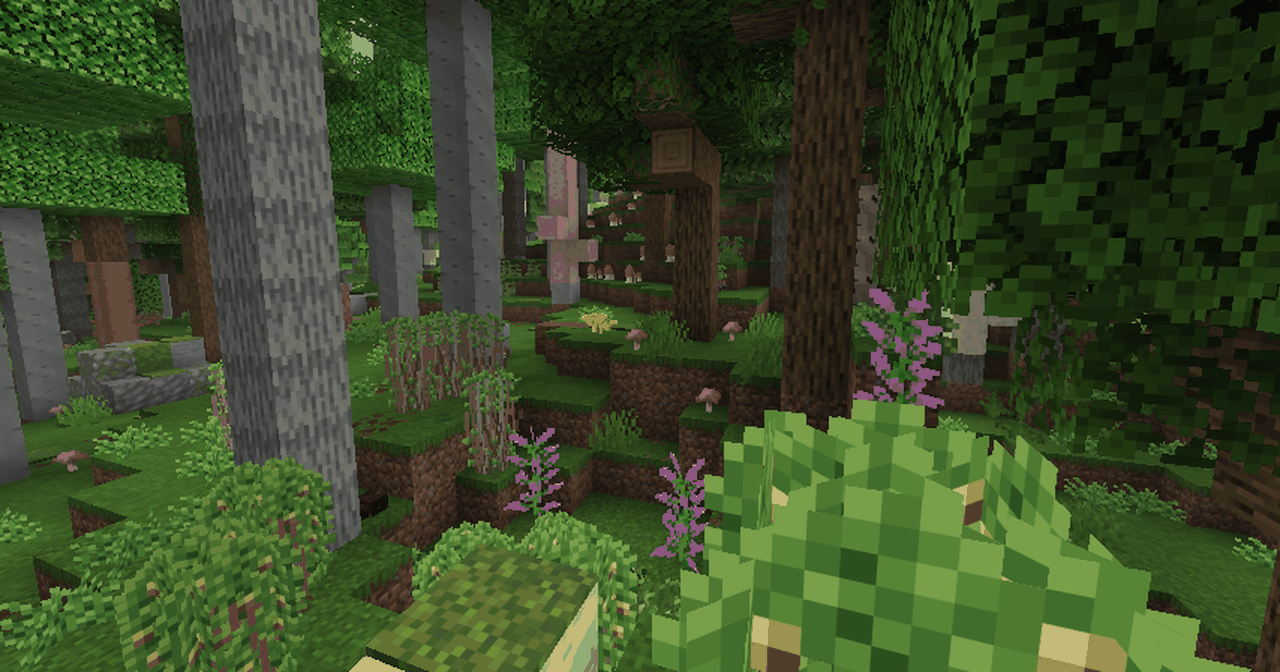
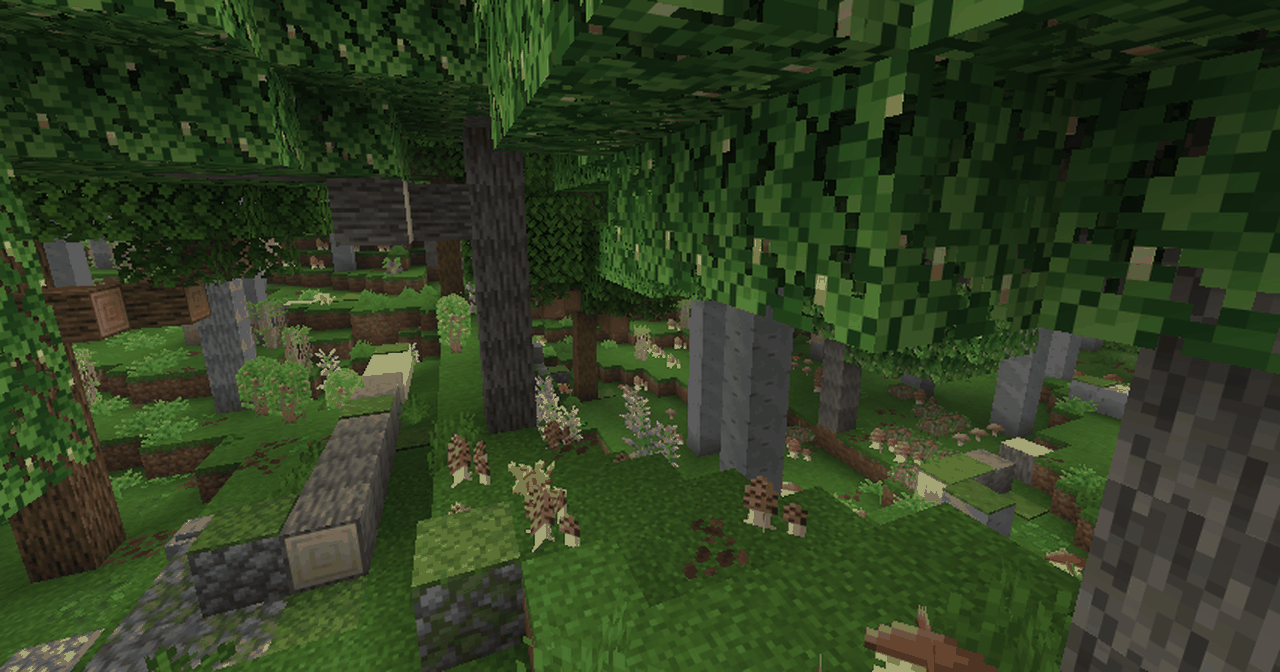
Root plates and beaver dams reworked: oval tilted root plate with root ends and crater, curved three-course dam, rounded lodge mound
Root plate: ragged oval ~5 wide of rooted dirt, dirt, coarse dirt and a few stones, thicker in the middle, top
tipped back over the trunk, Mangrove Roots poking out at the rim and back, Hanging Roots under; the trunk butt sits
in the middle of the disc; a 3x5 crater behind. Beaver dam: three courses, the top one above the pond and keyed
into the banks, the middle bowed downstream; lodge is a rounded mound (5 across, 3 high; 3x2 when cramped) that
may lean on the bank. DecorShots: open-sky overviews, no axis override for plates and dams. Same version.

diff --git a/src/main/java/com/mechanical/worldgen/WaterDecor.java b/src/main/java/com/mechanical/worldgen/WaterDecor.java
@@ -108,24 +108,20 @@ final class WaterDecor extends StoneAgeFeature {
     }
 
     /**
-     * Sticks, mud and a log or two packed across a creek in two courses, the pond behind it risen a block where it is closed
-     * in, a lodge in the pond if there is room, and a beaver or two that keep it up.
+     * A beaver dam across a creek: a wall of sticks and mud (Beaver Dam blocks, some Mud) three courses high, keyed into
+     * both banks and bowed a block downstream in the middle, a log or two on top. Where the water above is closed in the
+     * pond rises a block, so it stands fuller behind the dam. In the pond a lodge: a low rounded mound 5 across and 3
+     * high (3 across and 2 high if the pond is small) with a wet chamber inside. A beaver or two keep it all up.
      */
     private static BlockPos beaverDam(WorldGenLevel level, RandomSource random, BlockPos c) {
         Span s = crossing(level, c, 5, 2, 6, 2);
         if (s == null) return null;
         ForestDecor.Wood w = ForestDecor.woodNear(level, new BlockPos(c.getX(), s.start().getY() + 1, c.getZ()), 10);
-        BlockState dam = RiverFauna.BEAVER_DAM.get().defaultBlockState();
-        for (int course = 0; course < 2; course++) {
-            for (int i = 0; i < s.len(); i++) {
-                BlockPos p = s.start().relative(s.dir(), i).above(course);
-                BlockState st = w != null && random.nextInt(6) == 0 ? ForestDecor.pillar(w.log(), s.dir().getAxis())
-                        : course == 0 && random.nextInt(5) == 0 ? Blocks.MUD.defaultBlockState() : dam;
-                set(level, p, st);
-            }
-        }
+        Direction dir = s.dir(), across = dir.getClockWise();
+        int wy = s.start().getY();
+        for (int course = 0; course < 2; course++)
+            for (int i = 0; i < s.len(); i++) set(level, s.start().relative(dir, i).above(course), dam(random, course));
         // the pond: one block up on whichever side is closed in (a river that runs on just gets the dam)
-        Direction across = s.dir().getClockWise();
         int side = 0;
         for (int sd : new int[] {1, -1}) {
             Set<BlockPos> pond = pond(level, s, across, sd, c);
@@ -135,22 +131,64 @@ final class WaterDecor extends StoneAgeFeature {
                 break;
             }
         }
-        int waterY = s.start().getY() + (side != 0 ? 1 : 0);
-        BlockPos mid = s.start().relative(s.dir(), s.len() / 2);
-        BlockPos lodge = lodgeSite(level, mid, across, side != 0 ? side : 1, waterY, c);
-        if (lodge != null) {
-            for (int dx = -1; dx <= 1; dx++)
-                for (int dz = -1; dz <= 1; dz++) {
-                    if (dx != 0 || dz != 0) set(level, lodge.offset(dx, 0, dz), dam); // the ring; the chamber inside stays wet
-                    set(level, lodge.offset(dx, 1, dz), dam);
-                }
-            set(level, lodge.above(2), dam);
+        int up = side != 0 ? side : 1;
+        // the top course, standing above the pond, ends keyed into the banks; the middle bowed out downstream
+        for (int i = -1; i <= s.len(); i++) {
+            BlockPos p = s.start().relative(dir, i).atY(wy + 2);
+            boolean bank = i < 0 || i == s.len();
+            if (level.getBlockState(p).canBeReplaced() && level.getFluidState(p).isEmpty() && (!bank || solid(level, p.below())))
+                set(level, p, w != null && !bank && random.nextInt(5) == 0 ? ForestDecor.pillar(w.log(), dir.getAxis()) : dam(random, 2));
+            if (bank || s.len() < 3 || i == 0 || i == s.len() - 1) continue;
+            for (int course = 0; course < 2; course++) {
+                BlockPos q = s.start().relative(dir, i).relative(across, -up).above(course);
+                if (level.getBlockState(q).canBeReplaced()) set(level, q, dam(random, course));
+            }
         }
-        BlockPos home = lodge != null ? lodge : mid.atY(waterY);
-        BlockPos stand = mid.above(2);
+        int waterY = wy + (side != 0 ? 1 : 0);
+        BlockPos mid = s.start().relative(dir, s.len() / 2);
+        BlockPos lodge = lodgeSite(level, mid, across, up, waterY, c, 2);
+        boolean big = lodge != null;
+        if (lodge == null) lodge = lodgeSite(level, mid, across, up, waterY, c, 1);
+        if (lodge != null) lodge(level, random, lodge, big, w);
+        if (lodge != null) // dev log: the spot between dam and lodge, seen from downstream
+            Decor.logPlaced("beaver_view" + (big ? "_big_" : "_small_") + Decor.viewAngle(up > 0 ? across.getOpposite() : across),
+                    new BlockPos((mid.getX() + lodge.getX()) / 2, waterY, (mid.getZ() + lodge.getZ()) / 2));
+        BlockPos home = lodge != null ? lodge : mid.atY(waterY), lodgeAt = lodge;
+        BlockPos stand = mid.atY(wy + 3);
         for (int i = random.nextInt(3) == 0 ? 2 : 1; i > 0; i--)
-            spawn(level, random, RiverFauna.BEAVER.get(), stand, b -> b.settle(home, s.start(), s.dir(), s.len(), lodge));
+            spawn(level, random, RiverFauna.BEAVER.get(), stand, b -> b.settle(home, s.start(), dir, s.len(), lodgeAt));
         return mid;
+    }
+
+    /** Dam stuff: Beaver Dam blocks (sticks packed with mud), now and then plain Mud low down. */
+    private static BlockState dam(RandomSource random, int course) {
+        return course == 0 && random.nextInt(5) == 0 ? Blocks.MUD.defaultBlockState() : RiverFauna.BEAVER_DAM.get().defaultBlockState();
+    }
+
+    /**
+     * The lodge at the water surface centre: a rounded mound (big: 5 across, 3 high; else 3 across, 2 high), its outer
+     * ring built up from the pond floor, the chamber in the middle at water level left wet.
+     */
+    private static void lodge(WorldGenLevel level, RandomSource random, BlockPos centre, boolean big, ForestDecor.Wood w) {
+        int[] reach = big ? new int[] {5, 4, 1} : new int[] {2, 1}; // squared radius of each layer
+        for (int layer = 0; layer < reach.length; layer++) {
+            for (int dx = -2; dx <= 2; dx++) {
+                for (int dz = -2; dz <= 2; dz++) {
+                    int d = dx * dx + dz * dz;
+                    if (d > reach[layer] || layer == 0 && d == 0) continue;
+                    BlockPos p = centre.offset(dx, layer, dz);
+                    if (!level.getBlockState(p).canBeReplaced() && !natural(level.getBlockState(p))) continue; // never into a tree
+                    set(level, p, dam(random, layer));
+                    if (layer == 0 && d >= reach[0] - 1)
+                        for (BlockPos q = p.below(); q.getY() > centre.getY() - 4 && level.getFluidState(q).is(FluidTags.WATER); q = q.below()) set(level, q, dam(random, 0));
+                }
+            }
+        }
+        if (w != null && random.nextBoolean()) { // a peeled stick poking out of the side
+            Direction d = Direction.Plane.HORIZONTAL.getRandomDirection(random);
+            BlockPos p = centre.above().relative(d, big ? 3 : 2);
+            if (level.getBlockState(p).isAir()) set(level, p, ForestDecor.pillar(w.stripped(), d.getAxis()));
+        }
     }
 
     /** One to three bleached, barkless logs lying on a beach or bank within 3 blocks of the water. */
@@ -346,22 +384,36 @@ final class WaterDecor extends StoneAgeFeature {
         return fill;
     }
 
-    /** A 3x3 of open water at waterY on side of the dam, 3 to 7 blocks out, with room above for the roof. */
-    private static BlockPos lodgeSite(WorldGenLevel level, BlockPos mid, Direction across, int side, int waterY, BlockPos c) {
-        for (int out = 3; out <= 7; out++) {
+    /**
+     * Open water at waterY for a lodge of radius r (2: 5x5 without its corners, 1: 3x3) on side of the dam, its centre 3
+     * to 7 blocks out, with room above for the mound.
+     */
+    private static BlockPos lodgeSite(WorldGenLevel level, BlockPos mid, Direction across, int side, int waterY, BlockPos c, int r) {
+        for (int out = r + 2; out <= 7; out++) {
             for (int shift = 0; shift <= 4; shift++) {
                 for (int sign : new int[] {1, -1}) {
                     BlockPos centre = mid.relative(across, side * out).relative(across.getClockWise(), shift * sign).atY(waterY);
-                    if (Math.abs(centre.getX() - c.getX()) > 13 || Math.abs(centre.getZ() - c.getZ()) > 13) continue;
-                    boolean ok = true;
-                    for (int dx = -1; dx <= 1 && ok; dx++)
-                        for (int dz = -1; dz <= 1 && ok; dz++)
-                            ok = surfaceWater(level, centre.offset(dx, 0, dz)) && level.getBlockState(centre.offset(dx, 2, dz)).isAir();
+                    if (Math.abs(centre.getX() - c.getX()) > 15 - r || Math.abs(centre.getZ() - c.getZ()) > 15 - r) continue;
+                    boolean ok = level.getBlockState(centre.above(3)).isAir();
+                    for (int dx = -r; dx <= r && ok; dx++)
+                        for (int dz = -r; dz <= r && ok; dz++) {
+                            int d = dx * dx + dz * dz;
+                            BlockPos p = centre.offset(dx, 0, dz);
+                            // the middle (the chamber) in open water, the rest may lean on the bank (a bank lodge)
+                            ok = d > r * r + 1 || surfaceWater(level, p) || d > 0 && lodgeBank(level, p);
+                        }
                     if (ok) return centre;
                 }
             }
         }
         return null;
+    }
+
+    /** Bank a lodge may be built against: natural ground at the water's height, or open air right above such ground. */
+    private static boolean lodgeBank(WorldGenLevel level, BlockPos p) {
+        BlockState s = level.getBlockState(p);
+        return level.getFluidState(p).isEmpty() && level.getBlockState(p.above()).canBeReplaced()
+                && (natural(s) || s.canBeReplaced() && natural(level.getBlockState(p.below())));
     }
 
     /** Solid, natural ground on both sides of p across dir, and under it. */

diff --git a/src/main/java/com/mechanical/worldgen/ForestDecor.java b/src/main/java/com/mechanical/worldgen/ForestDecor.java
@@ -114,18 +114,25 @@ final class ForestDecor extends StoneAgeFeature {
         return true;
     }
 
-    /** An uprooted tree: the trunk on the ground, the root plate standing on end at its foot and the pit it tore out. */
+    /**
+     * An uprooted tree: the root plate standing on end, the trunk's butt in its middle (lifted a block off the ground for
+     * two blocks, then lying on it) and behind the plate the crater it tore out of the ground.
+     */
     private static boolean rootPlate(WorldGenLevel level, RandomSource random, BlockPos c) {
         Wood w = woodNear(level, c, 10);
-        if (w == null || !flat(level, c, 2, 1)) return false;
         Direction dir = randomSide(random);
-        List<BlockPos> trunk = logCells(level, c.relative(dir), dir, 5 + random.nextInt(4), false);
-        if (trunk.size() < 4) return false;
+        if (w == null || !flat(level, c, 2, 1) || !flat(level, c.relative(dir.getOpposite(), 2), 2, 1)) return false;
+        List<BlockPos> trunk = logCells(level, c.relative(dir, 3), dir, 3 + random.nextInt(4), false);
+        BlockPos butt = c.above();
+        if (trunk.size() < 2 || !level.getBlockState(butt.relative(dir)).isAir() || !level.getBlockState(butt.relative(dir, 2)).isAir()) return false;
+        plate(level, random, c, dir, 2.2 + random.nextDouble() * 0.8);
+        List<BlockPos> lifted = List.of(butt, butt.relative(dir), butt.relative(dir, 2));
+        lay(level, lifted, w.log(), dir.getAxis());
         lay(level, trunk, w.log(), dir.getAxis());
-        plate(level, random, c, dir, 1.8 + random.nextDouble());
-        pit(level, random, c.relative(dir.getOpposite()), dir);
+        pit(level, random, c, dir);
         if (w.leaves() != null && random.nextBoolean()) crown(level, random, trunk.getLast().relative(dir), w.leaves());
         dressLog(level, random, trunk, dir.getAxis(), 0.15F);
+        Decor.logPlaced("root_plate_dir_" + Decor.viewAngle(dir), butt);
         return true;
     }
 
@@ -279,43 +286,71 @@ final class ForestDecor extends StoneAgeFeature {
     }
 
     /**
-     * The root plate: a ragged disc of Rooted Dirt, Dirt and Coarse Dirt standing on end across dir (the way the trunk
-     * fell), its middle a block above c, Hanging Roots under every overhang.
+     * The root plate, standing on end across dir (the way the trunk fell) with its middle a block above c: a ragged oval
+     * about 5 wide and 4-5 high of Rooted Dirt, Dirt and Coarse Dirt with a few stones in it, two thick in the middle,
+     * its top tipped back a block over the trunk. Root ends (Mangrove Roots) poke out at the rim and from the back, and
+     * Hanging Roots hang under it.
      */
     static void plate(WorldGenLevel level, RandomSource random, BlockPos c, Direction dir, double radius) {
-        Direction across = dir.getClockWise();
+        Direction across = dir.getClockWise(), back = dir.getOpposite();
         BlockPos mid = c.above();
-        int ir = (int) Math.ceil(radius);
-        List<BlockPos> placed = new ArrayList<>();
-        for (int a = -ir; a <= ir; a++) {
-            for (int b = -ir; b <= ir; b++) {
-                if (a * a + b * b > radius * radius + (random.nextDouble() - 0.5) * 1.5) continue;
-                BlockPos p = mid.relative(across, a).above(b);
-                if (!level.getBlockState(p).canBeReplaced() || !level.getFluidState(p).isEmpty()) continue;
-                set(level, p, (switch (random.nextInt(6)) {
-                    case 0, 1 -> Blocks.DIRT;
-                    case 2 -> Blocks.COARSE_DIRT;
-                    default -> Blocks.ROOTED_DIRT;
-                }).defaultBlockState());
-                placed.add(p);
+        double rh = radius + 0.3, rv = radius;
+        List<BlockPos> soil = new ArrayList<>(), rim = new ArrayList<>();
+        List<Direction> out = new ArrayList<>();
+        for (int a = -(int) Math.ceil(rh); a <= rh; a++) {
+            for (int b = -(int) Math.ceil(rv); b <= rv; b++) {
+                double d = (a / rh) * (a / rh) + (b / rv) * (b / rv);
+                if (d > 1 + (random.nextDouble() - 0.5) * 0.45) continue;
+                BlockPos p = mid.relative(across, a).above(b).relative(dir, b >= 2 ? 1 : 0);
+                if (soil(level, random, p)) soil.add(p);
+                if (d < 0.3 && soil(level, random, p.relative(back))) soil.add(p.relative(back));
+                if (d > 0.55) {
+                    rim.add(p);
+                    out.add(Math.abs(a / rh) >= Math.abs(b / rv) ? (a > 0 ? across : across.getOpposite()) : Direction.UP);
+                }
             }
         }
-        for (BlockPos p : placed) if (level.getBlockState(p.below()).isAir() && random.nextInt(5) < 3) set(level, p.below(), Blocks.HANGING_ROOTS.defaultBlockState());
+        BlockState roots = Blocks.MANGROVE_ROOTS.defaultBlockState();
+        for (int i = 0; i < rim.size(); i++) {
+            BlockPos q = rim.get(i).relative(out.get(i));
+            if (random.nextBoolean() && level.getBlockState(q).isAir()) set(level, q, roots);
+        }
+        for (BlockPos p : soil) {
+            if (random.nextInt(4) == 0 && level.getBlockState(p.relative(back)).isAir()) set(level, p.relative(back), roots);
+            if (level.getBlockState(p.below()).isAir() && random.nextInt(5) < 3) set(level, p.below(), Blocks.HANGING_ROOTS.defaultBlockState());
+        }
     }
 
-    /** The hole the roots tore out, behind the plate: a block deep, two in the middle, sometimes holding a little rain water. */
-    private static void pit(WorldGenLevel level, RandomSource random, BlockPos back, Direction dir) {
+    /** One block of the plate if the spot is free: mostly dirt of three kinds, now and then a stone it tore up. */
+    private static boolean soil(WorldGenLevel level, RandomSource random, BlockPos p) {
+        if (!level.getBlockState(p).canBeReplaced() || !level.getFluidState(p).isEmpty()) return false;
+        set(level, p, (switch (random.nextInt(12)) {
+            case 0, 1, 2 -> Blocks.DIRT;
+            case 3, 4 -> Blocks.COARSE_DIRT;
+            case 5 -> random.nextBoolean() ? Blocks.COBBLESTONE : Blocks.ANDESITE;
+            default -> Blocks.ROOTED_DIRT;
+        }).defaultBlockState());
+        return true;
+    }
+
+    /**
+     * The crater behind the plate (c is the plate's foot): an oval about 3 long and 5 wide, a block deep, two in the
+     * middle, floored with Coarse Dirt and Rooted Dirt; sometimes rain water stands in the deep part.
+     */
+    private static void pit(WorldGenLevel level, RandomSource random, BlockPos c, Direction dir) {
         Direction across = dir.getClockWise();
         List<BlockPos> deep = new ArrayList<>();
-        for (int k = 0; k < 2; k++) {
-            for (int a = -1; a <= 1; a++) {
-                BlockPos top = back.relative(dir, -k).relative(across, a);
+        for (int k = 1; k <= 3; k++) {
+            for (int a = -2; a <= 2; a++) {
+                double d = (k - 1.8) * (k - 1.8) / 2.0 + a * a / 6.5;
+                if (d > 1 + (random.nextDouble() - 0.5) * 0.3) continue;
+                BlockPos top = c.relative(dir, -k).relative(across, a);
                 BlockPos g = surface(level, top.getX(), top.getZ()).below();
-                if (g.getY() != back.getY() - 1 || !level.getBlockState(g).is(BlockTags.SUBSTRATE_OVERWORLD)) continue;
+                if (g.getY() != c.getY() - 1 || !level.getBlockState(g).is(BlockTags.SUBSTRATE_OVERWORLD)) continue;
                 BlockState up = level.getBlockState(g.above());
                 if (!up.isAir() && up.canBeReplaced()) set(level, g.above(), AIR);
                 set(level, g, AIR);
-                boolean middle = a == 0 && natural(level.getBlockState(g.below()));
+                boolean middle = d < 0.4 && natural(level.getBlockState(g.below()));
                 if (middle) {
                     set(level, g.below(), AIR);
                     deep.add(g.below());
@@ -323,7 +358,7 @@ final class ForestDecor extends StoneAgeFeature {
                 set(level, middle ? g.below(2) : g.below(), (random.nextBoolean() ? Blocks.COARSE_DIRT : Blocks.ROOTED_DIRT).defaultBlockState());
             }
         }
-        // a pool only if every side of the deep cells is solid (or the other deep cell), so it can't run off
+        // a pool only if every side of the deep cells is solid (or another deep cell), so it can't run off
         if (random.nextInt(3) > 0 || deep.isEmpty()) return;
         for (BlockPos p : deep) {
             for (Direction d : Direction.Plane.HORIZONTAL) {

diff --git a/src/main/java/com/mechanical/DecorShots.java b/src/main/java/com/mechanical/DecorShots.java
@@ -127,9 +127,10 @@ public final class DecorShots {
         ServerPlayer p = player();
         var level = p.level();
         Vec3 look = new Vec3(s.x() + 0.5, s.y() + 0.5, s.z() + 0.5), eye = null;
+        boolean overview = s.name().startsWith("overview");
         // a lying log is shot from the side: start from the angle across its axis
         double base = s.angle();
-        for (int dy = 0; dy >= -1; dy--) {
+        for (int dy = 0; dy >= -1 && !s.name().contains("plate") && !s.name().contains("dam"); dy--) {
             var st = level.getBlockState(net.minecraft.core.BlockPos.containing(s.x(), s.y() + dy, s.z()));
             if (st.hasProperty(net.minecraft.world.level.block.RotatedPillarBlock.AXIS) && st.getValue(net.minecraft.world.level.block.RotatedPillarBlock.AXIS) != net.minecraft.core.Direction.Axis.Y) {
                 base = (st.getValue(net.minecraft.world.level.block.RotatedPillarBlock.AXIS) == net.minecraft.core.Direction.Axis.X ? 0 : 90) + (s.angle() % 2 == 0 ? 0 : 180) + 25;
@@ -138,11 +139,13 @@ public final class DecorShots {
         }
         // at eye height over open ground, the first angle (from the given one round) and distance with a clear view
         for (int i = 0; i < 16 && eye == null; i++) {
-            for (double dist : new double[] {s.distance(), s.distance() - 2, s.distance() + 2}) {
+            for (double dist : new double[] {s.distance(), s.distance() - 2, s.distance() + 2, s.distance() + 4}) {
                 double a = Math.toRadians(base + 22.5 * i);
                 double cx = s.x() + 0.5 - Math.sin(a) * dist, cz = s.z() + 0.5 + Math.cos(a) * dist;
-                double y = s.height() != null ? s.y() + s.height()
-                        : level.getHeight(Heightmap.Types.MOTION_BLOCKING_NO_LEAVES, (int) Math.floor(cx), (int) Math.floor(cz)) + 2.3;
+                int ix = (int) Math.floor(cx), iz = (int) Math.floor(cz), ground = level.getHeight(Heightmap.Types.MOTION_BLOCKING_NO_LEAVES, ix, iz);
+                // overviews stand in the open (no canopy over the camera) and a little higher
+                if (overview && level.getHeight(Heightmap.Types.MOTION_BLOCKING, ix, iz) > ground) continue;
+                double y = s.height() != null ? s.y() + s.height() : ground + (overview ? 4.5 : 2.3);
                 Vec3 e = new Vec3(cx, y, cz);
                 var hit = level.clip(new net.minecraft.world.level.ClipContext(e, look, net.minecraft.world.level.ClipContext.Block.VISUAL,
                         net.minecraft.world.level.ClipContext.Fluid.NONE, p));

diff --git a/src/main/java/com/mechanical/worldgen/Decor.java b/src/main/java/com/mechanical/worldgen/Decor.java
@@ -114,6 +114,11 @@ final class Decor {
         if (LOG_PLACED) Mechanical.LOGGER.info("decor {} at {} {} {}", what, p.getX(), p.getY(), p.getZ());
     }
 
+    /** For logPlaced names: the DecorShots angle (degrees, 0 = camera to the south) that puts a camera on the side of d. */
+    static int viewAngle(net.minecraft.core.Direction d) {
+        return Math.floorMod((int) Math.round(Math.toDegrees(Math.atan2(-d.getStepX(), d.getStepZ()))), 360);
+    }
+
     private static double sq(double v) {
         return v * v;
     }

diff --git a/docs/biomes.md b/docs/biomes.md
@@ -105,8 +105,11 @@ Birch/Pine/Spruce, Dark Forest, Pale Garden, Deciduous Forest):
   och svamp på, ormbunkar, mossa, Porcini och Chanterelle längs sidorna, ibland en stubbe en bit från rotänden.
 - **Snag:** dött stående träd av samma slag som skogen runt, en barklös stam (Stripped Log, bark kvar vid foten och i fläckar), 4–8 högt,
   korta grenstumpar och borrhål (Grub Log). Var tredje är bara en stubbe med mossa eller svamp.
-- **Root plate:** upprycket träd. Rotkakan står på högkant (Rooted Dirt, Dirt, Coarse Dirt, Hanging Roots under), stammen
-  ligger ut från den och bakom är gropen, ibland med vatten och Mud i botten. Ibland ligger kronans löv kvar.
+- **Root plate:** upprycket träd. Rotkakan står på högkant: en ojämn oval, ungefär 5 bred och 4–5 hög, av Rooted Dirt,
+  Dirt och Coarse Dirt med några stenar i, tjockare i mitten och med toppen lutad bakåt över stammen. Rotändar (Mangrove
+  Roots) sticker ut runt kanten och bakåt, Hanging Roots under. Stammens rotände sitter i mitten av skivan och ligger ett
+  block över marken de två första blocken. Bakom är kratern, ungefär 3 × 5 och 1–2 djup, ibland med vatten och Mud i
+  botten. Ibland ligger kronans löv kvar.
 - **Mossy stones:** 2–5 små stenar (Mossy Cobblestone, Stone, Andesite, Tuff), halvt nedsjunkna med Moss Block och Moss
   Carpet på, ormbunkar runt. Även vid åar och på heden (Meadow, Plains, Chalk Downs, Slate Highlands). Komplement till de
   större `mossy_boulder`.
@@ -114,8 +117,10 @@ Birch/Pine/Spruce, Dark Forest, Pale Garden, Deciduous Forest):
 **Vatten:**
 - **Log bridge:** ett träd fallet tvärs över en bäck eller smal å (2–6 block vatten mellan två bankar 1–3 block över
   vattnet), vilande på båda bankarna. Ibland rotkakan på ena sidan och kronans löv på den andra. Skog och River.
-- **Beaver dam:** Beaver Dam-block, Mud och någon stock i två lager över en bäck med bankar minst 2 block höga. Är vattnet
-  ovanför instängt (högst 96 block) stiger gölen ett block; finns en 3x3 öppen vattenyta står en bäverhydda där. En eller
+- **Beaver dam:** en sammanhängande vall av Beaver Dam-block (kvistar och lera) och lite Mud tvärs över en bäck med bankar
+  minst 2 block höga: tre lager, det översta över vattenytan och inkilat i bankarna, mitten utbuktande ett block nedströms,
+  någon stock ovanpå. Är vattnet ovanför instängt (högst 96 block) stiger gölen ett block. I gölen en hydda: en låg rundad
+  hög 5 bred och 3 hög (3 bred och 2 hög om det är trångt) med en våt kammare i mitten, ofta lutad mot stranden. En eller
   två bävrar som bor där och lagar dammen (`Beaver.settle`).
 - **Driftwood:** 1–3 blekta barklösa stockar (Stripped Birch, Stripped Pale Oak, Stripped Oak, Stripped Spruce) platt på
   stränder och åbankar, högst 3 block från vattnet.
